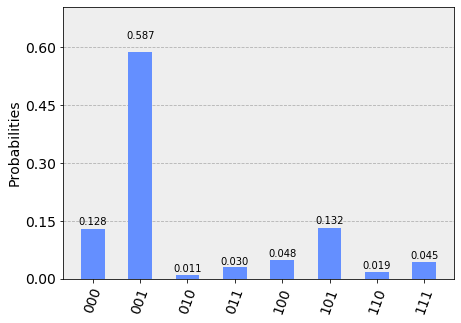
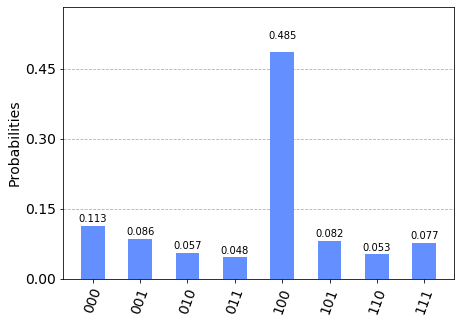
Updating textbook-master to Qiskit/qiskit-textbook@eff810995cfe1b33a67c121421dfe00df87e697f

diff --git a/static/textbook-master/ch-algorithms/quantum-fourier-transform.html b/static/textbook-master/ch-algorithms/quantum-fourier-transform.html
@@ -47,8 +47,8 @@
   "@type": "NewsArticle",
   "mainEntityOfPage": "https://community.qiskit.orgtextbook-master/ch-algorithms/quantum-fourier-transform.html",
   "headline": "Quantum Fourier Transform",
-  "datePublished": "2020-01-23T14:14:48+00:00",
-  "dateModified": "2020-01-23T14:14:48+00:00",
+  "datePublished": "2020-01-23T15:33:43+00:00",
+  "dateModified": "2020-01-23T15:33:43+00:00",
   "description": "            Quantum Fourier Transform In this tutorial, we introduce the quantum fourier transform (QFT), derive the circuit, and implement it using Qiskit. ...",
   "author": {
     "@type": "Person",
@@ -1892,7 +1892,7 @@ $$
 \frac{2\pi i}{2^3}x_1 + \frac{2\pi i}{2^2}x_2 + \frac{2\pi i}{2}x_3
 \right) 
 \vert1\rangle\right]
-$$<p><li> Keep in mind the reverse order of the output state relative to the desired QFT. Therefore, measure the bits in reverse order, that is $y_3 = x_1, y_2 = x_2, y_1 = y_3$.</p>
+$$<p><li> Keep in mind the reverse order of the output state relative to the desired QFT. Therefore, measure the bits in reverse order, that is $y_3 = x_1, y_2 = x_2, y_1 = x_3$.</p>
 
 </div>
 </div>
@@ -2007,6 +2007,23 @@ qft3.h(q[2])</code></pre>
 </div>
 </div>
 
+<div class="output_wrapper">
+<div class="output">
+
+<div class="jb_output_wrapper }}">
+<div class="output_area">
+
+
+
+<div class="output_text output_subarea output_execute_result">
+<pre>&lt;AccountProvider for IBMQ(hub=&#39;ibm-q&#39;, group=&#39;open&#39;, project=&#39;main&#39;)&gt;</pre>
+</div>
+
+</div>
+</div>
+</div>
+</div>
+
 </div>
 </div>
 
@@ -2041,6 +2058,12 @@ qft3.h(q[2])</code></pre>
         <span class="k">for</span> <span class="n">k</span> <span class="ow">in</span> <span class="nb">range</span><span class="p">(</span><span class="n">j</span><span class="o">+</span><span class="mi">1</span><span class="p">,</span><span class="n">n</span><span class="p">):</span>
             <span class="n">circ</span><span class="o">.</span><span class="n">cu1</span><span class="p">(</span><span class="n">math</span><span class="o">.</span><span class="n">pi</span><span class="o">/</span><span class="nb">float</span><span class="p">(</span><span class="mi">2</span><span class="o">**</span><span class="p">(</span><span class="n">k</span><span class="o">-</span><span class="n">j</span><span class="p">)),</span> <span class="n">q</span><span class="p">[</span><span class="n">k</span><span class="p">],</span> <span class="n">q</span><span class="p">[</span><span class="n">j</span><span class="p">])</span>
         <span class="n">circ</span><span class="o">.</span><span class="n">barrier</span><span class="p">()</span>
+    <span class="n">swap_registers</span><span class="p">(</span><span class="n">circ</span><span class="p">,</span> <span class="n">q</span><span class="p">,</span> <span class="n">n</span><span class="p">)</span>
+    
+<span class="k">def</span> <span class="nf">swap_registers</span><span class="p">(</span><span class="n">circ</span><span class="p">,</span> <span class="n">q</span><span class="p">,</span> <span class="n">n</span><span class="p">):</span>
+    <span class="k">for</span> <span class="n">j</span> <span class="ow">in</span> <span class="nb">range</span><span class="p">(</span><span class="n">math</span><span class="o">.</span><span class="n">floor</span><span class="p">(</span><span class="n">n</span><span class="o">/</span><span class="mi">2</span><span class="p">)):</span>
+        <span class="n">circ</span><span class="o">.</span><span class="n">swap</span><span class="p">(</span><span class="n">q</span><span class="p">[</span><span class="n">j</span><span class="p">],</span> <span class="n">q</span><span class="p">[</span><span class="n">n</span><span class="o">-</span><span class="n">j</span><span class="o">-</span><span class="mi">1</span><span class="p">])</span>
+    <span class="k">return</span> <span class="n">circ</span>
 </pre></div>
 
     </div>
@@ -2180,7 +2203,7 @@ qft3.h(q[2])</code></pre>
 
 
 <div class="output_text output_subarea output_execute_result">
-<pre>{&#39;001&#39;: 1024}</pre>
+<pre>{&#39;100&#39;: 1024}</pre>
 </div>
 
 </div>
@@ -2230,9 +2253,9 @@ qft3.h(q[2])</code></pre>
 
 <div class="inner_cell">
     <div class="input_area">
-<div class=" highlight hl-ipython3"><pre><span></span><span class="c1"># Use the IBMQ Vigo device with 5 qubits</span>
+<div class=" highlight hl-ipython3"><pre><span></span><span class="c1"># Use the IBMQ Burlington device with 5 qubits</span>
 <span class="n">provider</span> <span class="o">=</span> <span class="n">IBMQ</span><span class="o">.</span><span class="n">get_provider</span><span class="p">(</span><span class="n">hub</span><span class="o">=</span><span class="s1">&#39;ibm-q&#39;</span><span class="p">)</span>
-<span class="n">backend</span> <span class="o">=</span> <span class="n">provider</span><span class="o">.</span><span class="n">get_backend</span><span class="p">(</span><span class="s1">&#39;ibmq_vigo&#39;</span><span class="p">)</span>
+<span class="n">backend</span> <span class="o">=</span> <span class="n">provider</span><span class="o">.</span><span class="n">get_backend</span><span class="p">(</span><span class="s1">&#39;ibmq_burlington&#39;</span><span class="p">)</span>
 <span class="n">shots</span> <span class="o">=</span> <span class="mi">2048</span>
 <span class="n">job_exp</span> <span class="o">=</span> <span class="n">execute</span><span class="p">(</span><span class="n">qft3</span><span class="p">,</span> <span class="n">backend</span><span class="o">=</span><span class="n">backend</span><span class="p">,</span> <span class="n">shots</span><span class="o">=</span><span class="n">shots</span><span class="p">)</span>
 <span class="n">job_monitor</span><span class="p">(</span><span class="n">job_exp</span><span class="p">)</span>
@@ -2351,46 +2374,6 @@ qft3.h(q[2])</code></pre>
 
 </div>
 </div>
-</div>
-</div>
-
-<div class="jb_cell">
-
-<div class="cell border-box-sizing code_cell rendered">
-<div class="input">
-
-<div class="inner_cell">
-    <div class="input_area">
-<div class=" highlight hl-ipython3"><pre><span></span><span class="kn">import</span> <span class="nn">qiskit</span>
-<span class="n">qiskit</span><span class="o">.</span><span class="n">__qiskit_version__</span>
-</pre></div>
-
-    </div>
-</div>
-</div>
-
-<div class="output_wrapper">
-<div class="output">
-
-<div class="jb_output_wrapper }}">
-<div class="output_area">
-
-
-
-<div class="output_text output_subarea output_execute_result">
-<pre>{&#39;qiskit&#39;: &#39;0.10.3&#39;,
- &#39;qiskit-terra&#39;: &#39;0.8.1&#39;,
- &#39;qiskit-ignis&#39;: &#39;0.1.1&#39;,
- &#39;qiskit-aer&#39;: &#39;0.2.1&#39;,
- &#39;qiskit-ibmq-provider&#39;: &#39;0.2.2&#39;,
- &#39;qiskit-aqua&#39;: &#39;0.5.1&#39;}</pre>
-</div>
-
-</div>
-</div>
-</div>
-</div>
-
 </div>
 </div>
 

diff --git a/static/textbook-master/ch-algorithms/quantum-phase-estimation.html b/static/textbook-master/ch-algorithms/quantum-phase-estimation.html
@@ -47,8 +47,8 @@
   "@type": "NewsArticle",
   "mainEntityOfPage": "https://community.qiskit.orgtextbook-master/ch-algorithms/quantum-phase-estimation.html",
   "headline": "Quantum Phase Estimation",
-  "datePublished": "2020-01-23T14:14:48+00:00",
-  "dateModified": "2020-01-23T14:14:48+00:00",
+  "datePublished": "2020-01-23T15:33:43+00:00",
+  "dateModified": "2020-01-23T15:33:43+00:00",
   "description": "            Quantum Phase Estimation Quantum phase estimation is one of the most important subroutines in quantum computation. It serves as a central buildin...",
   "author": {
     "@type": "Person",
@@ -2353,10 +2353,10 @@ $$
 
  
  
-<div id="ba16cac6-d8b7-4186-b96b-da675b1d70dc"></div>
+<div id="dcd72604-990d-4dc5-884c-d1ab8b9356d6"></div>
 <div class="output_subarea output_widget_view ">
 <script type="text/javascript">
-var element = $('#ba16cac6-d8b7-4186-b96b-da675b1d70dc');
+var element = $('#dcd72604-990d-4dc5-884c-d1ab8b9356d6');
 </script>
 <script type="application/vnd.jupyter.widget-view+json">
 {"model_id": "0412fd4ce6b24bdba3c63eb32f84a590", "version_major": 2, "version_minor": 0}

diff --git a/static/textbook-master/ch-quantum-hardware/error-correction-repetition-code.html b/static/textbook-master/ch-quantum-hardware/error-correction-repetition-code.html
@@ -47,8 +47,8 @@
   "@type": "NewsArticle",
   "mainEntityOfPage": "https://community.qiskit.orgtextbook-master/ch-quantum-hardware/error-correction-repetition-code.html",
   "headline": "Introduction to Quantum Error Correction using Repetition Codes",
-  "datePublished": "2020-01-23T14:14:48+00:00",
-  "dateModified": "2020-01-23T14:14:48+00:00",
+  "datePublished": "2020-01-23T15:33:43+00:00",
+  "dateModified": "2020-01-23T15:33:43+00:00",
   "description": "            Introduction to Quantum Error Correction via the Repetition Code Introduction Quantum computing requires us to encode information in qubits. Most...",
   "author": {
     "@type": "Person",

diff --git a/static/textbook-master/ch-applications/satisfiability-grover.html b/static/textbook-master/ch-applications/satisfiability-grover.html
@@ -47,8 +47,8 @@
   "@type": "NewsArticle",
   "mainEntityOfPage": "https://community.qiskit.orgtextbook-master/ch-applications/satisfiability-grover.html",
   "headline": "Solving Satisfiability Problems using Grover&#39;s Algorithm",
-  "datePublished": "2020-01-23T14:14:48+00:00",
-  "dateModified": "2020-01-23T14:14:48+00:00",
+  "datePublished": "2020-01-23T15:33:43+00:00",
+  "dateModified": "2020-01-23T15:33:43+00:00",
   "description": "            Solving Satisfiability Problems using Grover's Algorithm In this section, we demonstrate how to solve satisfiability problems using the implement...",
   "author": {
     "@type": "Person",

diff --git a/static/textbook-master/ch-quantum-hardware/calibrating-qubits-openpulse.html b/static/textbook-master/ch-quantum-hardware/calibrating-qubits-openpulse.html
@@ -47,8 +47,8 @@
   "@type": "NewsArticle",
   "mainEntityOfPage": "https://community.qiskit.orgtextbook-master/ch-quantum-hardware/calibrating-qubits-openpulse.html",
   "headline": "Calibrating Qubits with OpenPulse",
-  "datePublished": "2020-01-23T14:14:48+00:00",
-  "dateModified": "2020-01-23T14:14:48+00:00",
+  "datePublished": "2020-01-23T15:33:43+00:00",
+  "dateModified": "2020-01-23T15:33:43+00:00",
   "description": "            Calibrating qubits using Qiskit and OpenPulse Qiskit is an open-source framework for programming quantum computers (Ref. 1). Using Qiskit, quantu...",
   "author": {
     "@type": "Person",

diff --git a/static/textbook-master/ch-quantum-hardware/measurement-error-mitigation.html b/static/textbook-master/ch-quantum-hardware/measurement-error-mitigation.html
@@ -47,8 +47,8 @@
   "@type": "NewsArticle",
   "mainEntityOfPage": "https://community.qiskit.orgtextbook-master/ch-quantum-hardware/measurement-error-mitigation.html",
   "headline": "Measurement Error Mitigation",
-  "datePublished": "2020-01-23T14:14:48+00:00",
-  "dateModified": "2020-01-23T14:14:48+00:00",
+  "datePublished": "2020-01-23T15:33:43+00:00",
+  "dateModified": "2020-01-23T15:33:43+00:00",
   "description": "            Measurement Error Mitigation     from qiskit import *    Introduction The effect of noise is to give us outputs that are not quite correct. The e...",
   "author": {
     "@type": "Person",

diff --git a/static/textbook-master/ch-applications/qaoa.html b/static/textbook-master/ch-applications/qaoa.html
@@ -47,8 +47,8 @@
   "@type": "NewsArticle",
   "mainEntityOfPage": "https://community.qiskit.orgtextbook-master/ch-applications/qaoa.html",
   "headline": "Solving combinatorial optimization problems using QAOA",
-  "datePublished": "2020-01-23T14:14:48+00:00",
-  "dateModified": "2020-01-23T14:14:48+00:00",
+  "datePublished": "2020-01-23T15:33:43+00:00",
+  "dateModified": "2020-01-23T15:33:43+00:00",
   "description": "            Solving combinatorial optimization problems using QAOA In this tutorial, we introduce combinatorial optimization problems, explain approximate op...",
   "author": {
     "@type": "Person",

diff --git a/static/textbook-master/ch-prerequisites/python-and-jupyter-notebooks.html b/static/textbook-master/ch-prerequisites/python-and-jupyter-notebooks.html
@@ -47,8 +47,8 @@
   "@type": "NewsArticle",
   "mainEntityOfPage": "https://community.qiskit.orgtextbook-master/ch-prerequisites/python-and-jupyter-notebooks.html",
   "headline": "Python and Jupyter Notebooks",
-  "datePublished": "2020-01-23T14:14:48+00:00",
-  "dateModified": "2020-01-23T14:14:48+00:00",
+  "datePublished": "2020-01-23T15:33:43+00:00",
+  "dateModified": "2020-01-23T15:33:43+00:00",
   "description": "            Introduction to Python and Jupyter notebooks Python is a programming language where you don't need to compile. You can just run it line by line (...",
   "author": {
     "@type": "Person",

diff --git a/static/textbook-master/ch-states/pauli-matrices-bloch-sphere.html b/static/textbook-master/ch-states/pauli-matrices-bloch-sphere.html
@@ -47,8 +47,8 @@
   "@type": "NewsArticle",
   "mainEntityOfPage": "https://community.qiskit.orgtextbook-master/ch-states/pauli-matrices-bloch-sphere.html",
   "headline": "Pauli Matrices and the Bloch Sphere",
-  "datePublished": "2020-01-23T14:14:48+00:00",
-  "dateModified": "2020-01-23T14:14:48+00:00",
+  "datePublished": "2020-01-23T15:33:43+00:00",
+  "dateModified": "2020-01-23T15:33:43+00:00",
   "description": "            Pauli Matrices and the Bloch Sphere     from qiskit import *from qiskit.visualization import plot_bloch_vector    In this section we'll further d...",
   "author": {
     "@type": "Person",

diff --git a/static/textbook-master/ch-quantum-hardware/measuring-quantum-volume.html b/static/textbook-master/ch-quantum-hardware/measuring-quantum-volume.html
@@ -47,8 +47,8 @@
   "@type": "NewsArticle",
   "mainEntityOfPage": "https://community.qiskit.orgtextbook-master/ch-quantum-hardware/measuring-quantum-volume.html",
   "headline": "Measuring Quantum Volume",
-  "datePublished": "2020-01-23T14:14:48+00:00",
-  "dateModified": "2020-01-23T14:14:48+00:00",
+  "datePublished": "2020-01-23T15:33:43+00:00",
+  "dateModified": "2020-01-23T15:33:43+00:00",
   "description": "            Measuring Quantum Volume Introduction Quantum Volume (QV) is a single-number metric that can be measured using a concreteprotocol on near-term qu...",
   "author": {
     "@type": "Person",

diff --git a/static/textbook-master/ch-quantum-hardware/randomized-benchmarking.html b/static/textbook-master/ch-quantum-hardware/randomized-benchmarking.html
@@ -47,8 +47,8 @@
   "@type": "NewsArticle",
   "mainEntityOfPage": "https://community.qiskit.orgtextbook-master/ch-quantum-hardware/randomized-benchmarking.html",
   "headline": "Randomized Benchmarking",
-  "datePublished": "2020-01-23T14:14:48+00:00",
-  "dateModified": "2020-01-23T14:14:48+00:00",
+  "datePublished": "2020-01-23T15:33:43+00:00",
+  "dateModified": "2020-01-23T15:33:43+00:00",
   "description": "            Randomized Benchmarking Introduction One of the main challenges in building a quantum information processor is the non-scalability of completelyc...",
   "author": {
     "@type": "Person",

diff --git a/static/textbook-master/ch-states/unique-properties-qubits.html b/static/textbook-master/ch-states/unique-properties-qubits.html
@@ -47,8 +47,8 @@
   "@type": "NewsArticle",
   "mainEntityOfPage": "https://community.qiskit.orgtextbook-master/ch-states/unique-properties-qubits.html",
   "headline": "The Unique Properties of Qubits",
-  "datePublished": "2020-01-23T14:14:48+00:00",
-  "dateModified": "2020-01-23T14:14:48+00:00",
+  "datePublished": "2020-01-23T15:33:43+00:00",
+  "dateModified": "2020-01-23T15:33:43+00:00",
   "description": "            The Unique Properties of Qubits     from qiskit import *from qiskit.visualization import plot_histogram    You now know something about bits, and...",
   "author": {
     "@type": "Person",
